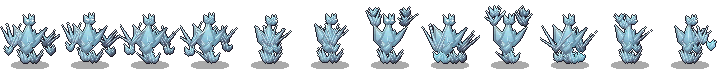
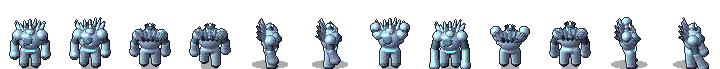
3D-built monsters: golems, Colossus and wisps
golems3d.ts models the four elemental golems, the fused Colossus and the
wisps; scaleModel is exported from beasts3d.ts.

Claude-Session: https://claude.ai/code/session_01QnG6XvgcyUsRQuMTD7uAxA

diff --git a/tools/art/paint/golems3d.ts b/tools/art/paint/golems3d.ts
@@ -1,0 +1,115 @@
+/**
+ * The Summoner's elemental golems, the Colossus they fuse into and the elemental wisps, 3D-built (mob3d.ts, Murat
+ * 2026-11-17). A golem is a hulk of its element (basalt with lava in the cracks, ice, mossy stone oozing poison,
+ * storm-dark stone crawling with sparks) with a burning core that shows through the seams. Models in world px:
+ * x forward, y its left, z up.
+ */
+import { cap, cone, ell, mat, rng, sphere, type Mat, type Model, type Prim, type V3 } from "./mob3d";
+import { GOLEM_ELEMENT, type GolemElement } from "./golems";
+import type { WispElement } from "./wisps";
+import { scaleModel } from "./beasts3d";
+
+type Pose = "stand" | "step" | "wind" | "strike";
+const v = (a: V3, b: V3): V3 => [a[0] + b[0], a[1] + b[1], a[2] + b[2]];
+const lerp = (a: V3, b: V3, t: number): V3 => [a[0] + (b[0] - a[0]) * t, a[1] + (b[1] - a[1]) * t, a[2] + (b[2] - a[2]) * t];
+
+function stoneOf(el: GolemElement): Mat {
+  const E = GOLEM_ELEMENT[el];
+  if (el === "cold") return mat(E.stone, { lo: 0.45, hi: 1.35, jelly: 0.35, spec: 1, shine: 40, grain: 0.08 });
+  return mat(E.stone, { lo: 0.32, hi: 1.35, grain: el === "poison" ? 0.35 : 0.25, spec: el === "shock" ? 0.3 : 0.1 });
+}
+
+/** A golem of one element; `colossus` is the fused form (the client draws it 1.6x): spikier, a crown of shards. */
+export function golem(el: GolemElement, pose: Pose, f: number, colossus = false): Model {
+  const E = GOLEM_ELEMENT[el], P: Prim[] = [], step = pose === "step", wind = pose === "wind", strike = pose === "strike";
+  const S = el === "fire" ? mat(0x8a4426, { lo: 0.32, hi: 1.45, grain: 0.3, emit: 0.12 }) : stoneOf(el), D = mat(E.dark, { lo: 0.3, hi: 1.3, grain: 0.25 }), glow = mat(E.glow, { emit: 1, lo: 0.7, hi: 1.4 }), hot = mat(E.hot, { emit: 1, lo: 0.8, hi: 1.3 });
+  const r = rng(colossus ? 31 : 7), bob = step ? 0.6 : 0, lean = strike ? 2.2 : wind ? -1.4 : 0;
+  // legs: two stumpy pillars of rock, stepping in turn
+  const hipZ = 13 + bob;
+  for (const s of [-1, 1]) {
+    const fw = step ? s * 2.2 : 0, lift = step && s > 0 ? 1.2 : 0;
+    const hip: V3 = [0, s * 4.2, hipZ], foot: V3 = [fw + 0.6, s * 4.8, 2.4 + lift];
+    P.push(cap(hip, foot, 3.6, 3.2, S, { k: 1.0 }), ell(v(foot, [0.8, 0, -0.9]), [4.0, 3.4, 2.0], D, { k: 0.8 }));
+  }
+  // the body: a pelvis rock, a huge chest boulder leaning into the blow, a small head sunk between the shoulders
+  P.push(ell([lean * 0.3, 0, hipZ + 1.5], [5.0, 6.4, 3.6], S, { k: 1.2 }));
+  const ch: V3 = [lean, 0, hipZ + 10.5];
+  P.push(ell(ch, [7.0, 9.0, 8.4], S, { k: 1.6 }));
+  for (let i = 0; i < 6; i++) { // lumps on the boulder, each a different rock
+    const a = r() * Math.PI * 2, b = (r() - 0.3) * 1.2;
+    P.push(ell(v(ch, [Math.cos(a) * 5.8 * Math.cos(b), Math.sin(a) * 7.4 * Math.cos(b), Math.sin(b) * 6.6]), [2.6 + r() * 1.4, 2.6 + r() * 1.4, 2.2 + r()], i % 2 ? D : S, { k: 0.9 }));
+  }
+  // seams in the chest, cut through to the glowing core under the rock
+  const nSeam = el === "fire" ? 10 : 6;
+  for (let i = 0; i < nSeam; i++) {
+    const a = (r() - 0.5) * 2.6, a0: V3 = v(ch, [Math.cos(a) * 6.6, Math.sin(a) * 8.6, (r() - 0.5) * 11]), a1 = v(a0, [0, (r() - 0.5) * 6, (r() - 0.5) * 6]);
+    P.push({ ...cap(a0, a1, el === "fire" ? 0.8 : 0.6, 0.45, D, { k: 0.1 }), cut: true });
+  }
+  P.push(ell(ch, [6.2, 8.1, 7.4], glow, { k: 0.4 })); // the core, seen through the seams
+  P.push(ell(v(ch, [6.6, 0, 0.5]), [0.9, 1.9, 1.9], hot, { k: 0.3 })); // its heart, a hot knot in the middle of the chest
+  const hd: V3 = v(ch, [2.4 + lean * 0.3, 0, 8.4]);
+  P.push(ell(hd, [3.2, 3.6, 3.0], S, { k: 0.8 }), ell(v(hd, [-0.6, 0, 1.6]), [2.6, 3.0, 1.6], D, { k: 0.6 }));
+  // arms: boulder shoulders, thick forearms, huge fists; the near fist raised on the wind-up, slammed down on the strike
+  for (const s of [-1, 1]) {
+    const sh: V3 = v(ch, [0, s * 9.4, 4.2]);
+    const raise = wind ? 22 : 0, slam = strike ? 7 : 0;
+    const hand: V3 = [lean + (strike ? 8.5 : wind ? -1.5 : 2.4) + (step ? -s * 1.5 : 0), s * (wind ? 11.5 : 12.4), Math.max(5, hipZ - 2 + raise - slam)];
+    const el2: V3 = [(sh[0] + hand[0]) / 2 - 1.2, s * 12.8, (sh[2] + hand[2]) / 2 + (wind ? 2 : 0)];
+    P.push(ell(sh, [4.4, 4.2, 4.0], S, { k: 1.0 }), cap(sh, el2, 3.0, 2.6, D, { k: 0.8 }), cap(el2, hand, 2.8, 3.4, S, { k: 0.8 }));
+    P.push(ell(hand, [3.8, 3.6, 3.6], S, { k: 0.8 }));
+    for (let k = -1; k <= 1; k++) P.push(sphere(v(hand, [2.6, k * 1.6, -0.6]), 1.25, D, { k: 0.4 })); // knuckles
+  }
+  // the element's own signs
+  const shoulders = [-1, 1].map((s) => v(ch, [0, s * 9.4, 7.6]));
+  if (el === "fire") { // flames licking off shoulders, head and fists
+    for (let k = 0; k < 8; k++) { // tongues of flame all over the hulk
+      const a = (r() - 0.5) * 3.4, b = v(ch, [Math.cos(a) * 7.0, Math.sin(a) * 8.8, -2 + r() * 7]);
+      P.push(cone(b, v(b, [-0.8, Math.sin(a) * 1.2, 3.5 + r() * 3 + (f % 2)]), 1.1, k % 2 ? glow : hot));
+    }
+    for (const q of [...shoulders, v(hd, [0, 0, 2.6])]) for (let k = 0; k < 3; k++) {
+      const b = v(q, [(r() - 0.5) * 2.5, (r() - 0.5) * 3, 0]);
+      P.push(cone(b, v(b, [-1.2 - r(), (r() - 0.5) * 1.5, 4.5 + r() * 4 + (f % 2) * 1.2]), 1.3, k ? glow : hot));
+    }
+  } else if (el === "cold") { // ice shards growing out of the back and shoulders
+    for (let k = 0; k < 9; k++) {
+      const a = -Math.PI / 2 + (k / 8) * Math.PI, b = v(ch, [-4.5, Math.sin(a) * 8, 4 + Math.cos(a) * 2]);
+      P.push(cone(b, v(b, [-2.5 - r() * 2, Math.sin(a) * 4, 5 + r() * 5]), 1.5 + r() * 0.6, S));
+    }
+  } else if (el === "poison") { // green ooze welling from the cracks and dripping off the fists
+    for (let k = 0; k < 7; k++) { const a = r() * Math.PI * 2; P.push(ell(v(ch, [Math.cos(a) * 6.5, Math.sin(a) * 8.3, (r() - 0.4) * 8]), [1.4, 1.4, 1.1], glow, { k: 0.5 })); }
+    for (const s of [-1, 1]) P.push(cap([lean + 2.4, s * 12.4, hipZ - 5], [lean + 2.6, s * 12.4, hipZ - 8 - (f % 3)], 0.6, 0.35, glow, { k: 0.3 }));
+  } else { // shock: rock shards hanging in the air round the shoulders, sparks between them
+    for (const s of [-1, 1]) for (let k = 0; k < 2; k++) {
+      const q = v(shoulders[s > 0 ? 1 : 0], [-1 + k * 2, s * (2.5 + k * 1.5), 3 + k * 2.4 + Math.sin(f + k) * 0.8]);
+      P.push(cone(v(q, [0, 0, -1.4]), v(q, [0, 0, 1.8]), 1.2, D));
+    }
+    for (let k = 0; k < 3; k++) { // zigzag bolts running down the chest and the legs
+      let q = v(ch, [6.9 - Math.abs(k - 1) * 1.2, -5 + k * 5, 6]);
+      for (let j = 0; j < 4; j++) { const n = v(q, [0.1, (j % 2 ? -1.6 : 1.6), -3.4]); P.push(cap(q, n, 0.38, 0.34, hot, { k: 0.04 })); q = n; }
+    }
+    for (const s of [-1, 1]) { let q: V3 = [3.4, s * 4.6, hipZ - 1]; for (let j = 0; j < 3; j++) { const n = v(q, [0, s * (j % 2 ? -1.0 : 1.0), -3.4]); P.push(cap(q, n, 0.34, 0.3, hot, { k: 0.04 })); q = n; } }
+  }
+  if (colossus) { // the fused form: a crown of shards, a spined back, a second ring of core light at the hips
+    for (let k = 0; k < 5; k++) { const a = (k - 2) * 0.55; P.push(cone(v(hd, [-0.5, Math.sin(a) * 2.6, 2.2]), v(hd, [-1 - Math.abs(a), Math.sin(a) * 4.5, 6.5 - Math.abs(a) * 1.5]), 1.0, k === 2 ? hot : D)); }
+    for (let k = 0; k < 4; k++) P.push(cone(v(ch, [-6, (k - 1.5) * 3.5, 3]), v(ch, [-11, (k - 1.5) * 4.5, 6 + (k % 2) * 3]), 1.6, D));
+    P.push(ell([lean * 0.3 + 4.2, 0, hipZ + 2], [1.2, 4.5, 1.0], glow, { k: 0.2 }));
+  }
+  const eyes = [-1, 1].map((s) => ({ p: v(hd, [3.0, s * 1.3, 0.2]) as V3, col: E.hot }));
+  return scaleModel({ prims: P, eyes, halos: [{ p: v(ch, [6.6, 0, 0.5]), r: 9, col: E.glow, a: el === "fire" ? 0.4 : 0.28 }], shadow: { x: lean * 0.5, y: 0, rx: 15, ry: 7.5, a: 0.42 } }, 0.82);
+}
+
+/** A small wisp of the element, floating over its shadow with one eye: a flame, a spiked ice star, a dripping bulb, a spark ball. */
+export function wisp(el: WispElement, pose: Pose, f: number): Model {
+  const E = GOLEM_ELEMENT[el], P: Prim[] = [], wind = pose === "wind", strike = pose === "strike";
+  const shell = mat(E.glow, { lo: 0.55, hi: 1.35, jelly: 0.5, emit: 0.35, spec: 0.8, shine: 30 }), core = mat(E.hot, { emit: 1, lo: 0.8, hi: 1.3 });
+  const R = (wind ? 3.2 : strike ? 3.8 : 3.4) + (f % 2) * 0.15, c: V3 = [strike ? 1.2 : 0, 0, 9.5];
+  P.push(sphere(c, R, shell, { k: 0.5 }));
+  P.push({ ...sphere(c, R * 0.55, core, { k: 0.3 }), inner: true });
+  P.push({ ...ell(v(c, [R * 0.85, 0, 0.2]), [0.6, 1.0, 1.0], mat(0x1a1420, { lo: 0.6, hi: 1 }), { k: 0.2 }), cut: true }); // the eye socket
+  if (el === "fire") P.push(cone(v(c, [-0.4, 0, R * 0.6]), v(c, [-1.6, 0, R + 3.6 + (f % 2)]), R * 0.6, shell));
+  else if (el === "cold") for (let k = 0; k < 6; k++) { const a = (k / 6) * Math.PI * 2 + f * 0.2; P.push(cone(v(c, [0, Math.cos(a) * R * 0.7, Math.sin(a) * R * 0.7]), v(c, [0, Math.cos(a) * (R + 2.4), Math.sin(a) * (R + 2.4)]), 0.6, shell)); }
+  else if (el === "poison") { P.push(cone(v(c, [0, 0, -R * 0.6]), v(c, [0.3, 0, -R - 2.2]), R * 0.55, shell)); P.push(sphere(v(c, [-1, 2.2, R + 1.4 - (f % 3) * 0.5]), 0.7, shell, { k: 0.1 })); }
+  else for (let k = 0; k < 5; k++) { const a = (k / 5) * Math.PI * 2 + f * 0.5; P.push(cone(v(c, [Math.cos(a) * R * 0.4, Math.sin(a) * R * 0.7, Math.cos(a * 1.7) * R * 0.6]), v(c, [Math.cos(a) * 1.5, Math.sin(a) * (R + 2.2), Math.cos(a * 1.7) * (R + 1.8)]), 0.55, shell)); }
+  const eye = lerp(c, v(c, [R, 0, 0.2]), 0.95);
+  return { prims: P, eyes: [{ p: eye, col: 0x1a1420 }], halos: [{ p: c, r: R + 3, col: E.glow, a: 0.3 }], shadow: { x: 0, y: 0, rx: 3.5, ry: 2.2, a: 0.35 }, lift: Math.sin(f * 1.7) * 0.8 };
+}

diff --git a/tools/art/paint/mobs.ts b/tools/art/paint/mobs.ts
@@ -1,5 +1,6 @@
 import { mkdirSync, readFileSync, writeFileSync } from "node:fs";
-import { GOLEM_H, GOLEM_W, paintGolemFrame, type GolemDir, type GolemElement } from "./golems";
+import { FOOT, GOLEM_H, GOLEM_W, type GolemElement } from "./golems";
+import { golem, wisp } from "./golems3d";
 import { createCanvas } from "@napi-rs/canvas";
 import { addChampPose, MOB_POSES, posed, setPainted, type Dir } from "../characters";
 import { C2, P, blobPath, css, ellipseP, fillShape, glow, line, vol } from "./brush";
@@ -10,7 +11,7 @@ import { RATTLER_H, RATTLER_W, VULTURE_H, VULTURE_PAL, VULTURE_W, WARHOUND_H, WA
 import { CROWNCROW_PAL, GILDHOUND_PAL } from "./crown";
 import { bird, boneHound, crawler, hound, mistWraith, rattler, scorpion, sinkworm, type Pose } from "./beasts3d";
 import { SINKWORM_H, SINKWORM_W } from "./sinkholes";
-import { paintWisp, WISP_H, WISP_W, type WispElement } from "./wisps";
+import { WISP_FOOT, WISP_H, WISP_W, type WispElement } from "./wisps";
 import { renderMob, SIN, YAW, type MobFrame, type Model } from "./mob3d";
 import { blobModel, blobRadius, type BlobOpts, type BlobPal } from "./blobs3d";
 import { RAIDERS } from "../../../shared/raiders";
@@ -192,15 +193,12 @@ export function buildMobs(out: string, ONLY?: string[]) {
     blobSheet("mob_motherblob2", 24, 22, { G: 0x2c8796, L: 0xb0eef5, D: 0x184c56, E: 0x0b2a30 }, { bodyH: 17, extra: "mother2", seed: 10 }),
     blobSheet("mob_motherblob3", 24, 22, { G: 0x553b96, L: 0xd3c2ff, D: 0x2f205f, E: 0x140a2a }, { bodyH: 17, extra: "mother3", seed: 11 }),
     // the Summoner's golems (Murat 2026-11-07: style 2, bodies made of the element), and the Colossus they fuse into
-    ...(["fire", "cold", "poison", "shock"] as GolemElement[]).flatMap((el, i) => [
-      { key: `mob_golem_${el}`, w: GOLEM_W, h: GOLEM_H, draw: (c: C2, f: number) => { const { dir, pose } = frameOf(f); paintGolemFrame(c, "elemental", el, dir as GolemDir, pose, 7 + i, SH ?? undefined); } },
-      { key: `mob_golem_colossus_${el}`, w: GOLEM_W, h: GOLEM_H, draw: (c: C2, f: number) => { const { dir, pose } = frameOf(f); paintGolemFrame(c, "elemental", el, dir as GolemDir, pose, 31 + i, SH ?? undefined); } },
+    ...(["fire", "cold", "poison", "shock"] as GolemElement[]).flatMap((el) => [
+      beast3D(`mob_golem_${el}`, GOLEM_W, GOLEM_H, FOOT, (pose, f) => golem(el, pose, f)),
+      beast3D(`mob_golem_colossus_${el}`, GOLEM_W, GOLEM_H, FOOT, (pose, f) => golem(el, pose, f, true)),
     ]),
     // the Summoner's elemental wisps (wisps.ts): small orbs floating above their shadow
-    ...(["fire", "cold", "poison", "shock"] as WispElement[]).map((el) => ({
-      key: `mob_wisp_${el}`, w: WISP_W, h: WISP_H,
-      draw: (c: C2, f: number) => { const { dir, pose } = frameOf(f); paintWisp(c, SH, el, dir as "down" | "up" | "right", pose, f); },
-    })),
+    ...(["fire", "cold", "poison", "shock"] as WispElement[]).map((el) => beast3D(`mob_wisp_${el}`, WISP_W, WISP_H, WISP_FOOT, (pose, f) => wisp(el, pose, f))),
     // humanoids get taller frames than the pixel ones, about hero height (client: PAINTED_LOOK in textures.ts)
     humanoid("mob_skeleton", "skeleton", 20, 30, 27.5 / 30, 0.85),
     humanoid("mob_skeleton_axe", "skeleton_axe", 20, 30, 27.5 / 30, 0.85),

diff --git a/tools/art/paint/beasts3d.ts b/tools/art/paint/beasts3d.ts
@@ -7,7 +7,7 @@ import { cap, chain, cone, custom, ell, mat, noise3, rng, sphere, torus, type Mo
 import type { HoundPalette, BirdPalette } from "./badlands";
 
 /** The same model S times bigger (a distance field scales as S * d(p / S)). */
-function scaleModel(m: Model, S: number): Model {
+export function scaleModel(m: Model, S: number): Model {
   const sv = (p: V3): V3 => [p[0] * S, p[1] * S, p[2] * S];
   return {
     ...m, prims: m.prims.map((p) => ({ ...p, k: p.k * S, lo: sv(p.lo), hi: sv(p.hi), d: (x: number, y: number, z: number) => S * p.d(x / S, y / S, z / S) })),

diff --git a/docs/3d-mobs-progress.md b/docs/3d-mobs-progress.md
@@ -35,5 +35,5 @@ never smooth. Performance: everything is baked by `tools/art` at the old sheet s
 | 6 | Desert | nomad, sanddead, veiled, camelfolk, sphinx, sunwright | done (robe3D for living robed monsters, sphinx nemes in beastHead3D) |
 | 7 | Moors / Badlands / Sinkholes / Crown | boghag, legionary, cairnlord, barrowking, delver, cackler, stagkin, quillback, stitcher, hidechief, mawfather, oathbreaker, crownguard, hollowherald, courtmagus, pretender, thronewarden, rivenking | done: wight, boghag, legionary, cairnlord, barrowking, delver, cackler, stagkin, quillback, stitcher, hidechief, mawfather, oathbreaker, crownguard, hollowherald, courtmagus, pretender, thronewarden, rivenking (wizard hats, painted mist/palm flame over 3D) |
 | 8 | Demons and bosses | demon 1-4 (bone harvest frames), hollowking | hollowking done in 2b |
-| 9 | Golems and wisps | golem/colossus x4 elements, wisps x4 | |
+| 9 | Golems and wisps | golem/colossus x4 elements, wisps x4 | done (golems3d.ts) |
 | 10 | War troops | war_* soldiers (fall frames), carts, rams, tunnels | |
